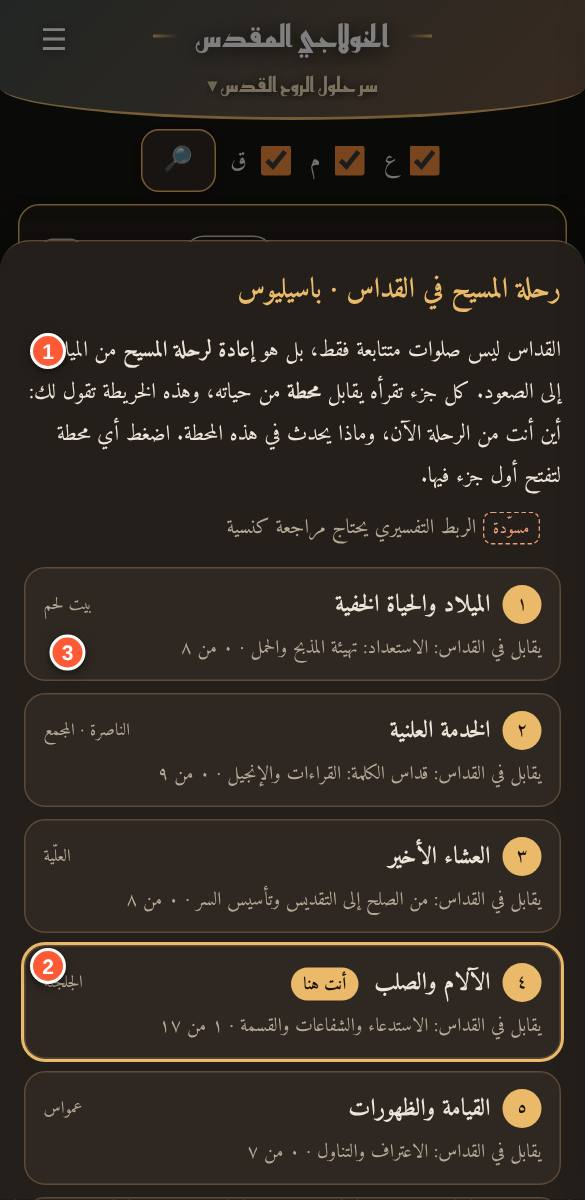
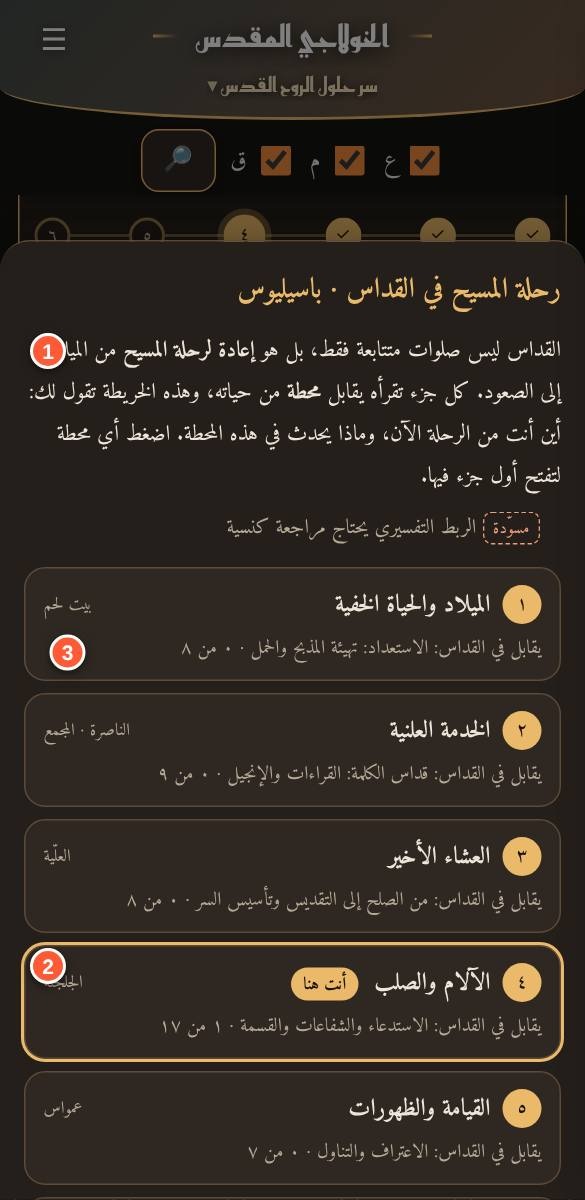
ألحان التوزيع: مدائح التوزيع السنوي والعنصرة + باقي ذكصولوجية باكر للعذراء (r159)
Claude-Session: https://claude.ai/code/session_01TxsQH8W41ZBNhnMhe9bVaK

diff --git a/data.js b/data.js
@@ -330,7 +330,8 @@ window.KHULAGI = {
       { id: "dox_nineveh", occ: "nineveh", l: "ص", title: "صوم نينوى (ذكصولوجية)", sub: "تقال في صوم نينوى (أيام الباعوثة) — من كتاب ألحان أسامة لطفي" },
       { id: "dox_nisteia", occ: "lent", l: "ت", title: "تي نيستيا الصغيرة (ذكصولوجية)", sub: "تقال في الصوم الكبير — من كتاب ألحان أسامة لطفي" },
       { id: "dox_thomas_sunday", occ: "thomas", l: "ا", title: "أحد توما (ذكصولوجية)", sub: "تقال في أحد توما (الأحد الأول بعد القيامة) — من كتاب ألحان أسامة لطفي" },
-      { id: "dox_peter_paul_2", occ: "apostles", l: "ب", title: "القديسان بطرس وبولس الرسولان (ذكصولوجية ثانية)", sub: "تقال في ٥ أبيب (تذكار استشهاد بطرس وبولس) — من كتاب ألحان أسامة لطفي" } ] },
+      { id: "dox_peter_paul_2", occ: "apostles", l: "ب", title: "القديسان بطرس وبولس الرسولان (ذكصولوجية ثانية)", sub: "تقال في ٥ أبيب (تذكار استشهاد بطرس وبولس) — من كتاب ألحان أسامة لطفي" },
+      { id: "dox_virgin_morning_rest", l: "م", title: "القديسة العذراء مريم (باقي ذكصولوجية باكر)", sub: "تقال بعد ذكصولوجية رفع بخور باكر — من كتاب ألحان أسامة لطفي" } ] },
     { id: "tawzi", title: "ألحان التوزيع", sections: [
       { id: "tawzi_nativity", occ: "nativity", title: "مديح لتوزيع عيد الميلاد", sub: "يُرتَّل أثناء التوزيع في عيد الميلاد المجيد (٢٩ كيهك)" },
       { id: "tawzi_annunciation", occ: "annunciation", title: "مديح لتوزيع عيد البشارة", sub: "يُرتَّل أثناء التوزيع في عيد البشارة (٢٩ برمهات)" },
@@ -354,7 +355,14 @@ window.KHULAGI = {
       { id: "tawzi_pascha_sun4", occ: "pascha-sun4", title: "مديح لتوزيع الأحد الرابع من الخمسين", sub: "يُرتَّل أثناء التوزيع في الأحد الرابع بعد القيامة" },
       { id: "tawzi_pascha_sun5", occ: "pascha-sun5", title: "مديح لتوزيع الأحد الخامس من الخمسين", sub: "يُرتَّل أثناء التوزيع في الأحد الخامس بعد القيامة" },
       { id: "tawzi_ascension", occ: "ascension", title: "مديح لتوزيع عيد الصعود", sub: "يُرتَّل أثناء التوزيع في عيد الصعود (الخميس الأربعين)" },
-      { id: "tawzi_pascha_sun6", occ: "pascha-sun6", title: "مديح لتوزيع الأحد السادس من الخمسين", sub: "يُرتَّل أثناء التوزيع في الأحد السادس بعد القيامة" } ] },
+      { id: "tawzi_pascha_sun6", occ: "pascha-sun6", title: "مديح لتوزيع الأحد السادس من الخمسين", sub: "يُرتَّل أثناء التوزيع في الأحد السادس بعد القيامة" },
+      { id: "tawzi_pentecost", occ: "pentecost", title: "مديح لتوزيع الأحد السابع (عيد العنصرة)", sub: "يُرتَّل أثناء التوزيع في عيد العنصرة (الأحد السابع من الخمسين)" },
+      { id: "tawzi_pentecost_hymns", occ: "pentecost apostlesfast", title: "ما يُقال في توزيع العنصرة وصوم الرسل", sub: "بعد المزمور ١٥٠ (لحن آسومين) في عيد العنصرة وصوم الرسل" },
+      { id: "tawzi_annual_isma", occ: "always", title: "مديح لتوزيع (اسمعوا يا شعب المسيح)", sub: "مديح التوزيع السنوي — يُرتَّل أثناء التوزيع على مدار السنة" },
+      { id: "tawzi_annual_magd", occ: "always", title: "مديح لتوزيع (المجد لمن رفع السموات)", sub: "مديح التوزيع السنوي — يُرتَّل أثناء التوزيع على مدار السنة" },
+      { id: "tawzi_annual_abana", occ: "always", title: "مديح أبانا الذي في السموات", sub: "مديح التوزيع السنوي — يُرتَّل أثناء التوزيع على مدار السنة" },
+      { id: "tawzi_annual_trinity", occ: "always", title: "مديح سنوي للثلاثة أقانيم", sub: "مديح التوزيع السنوي — يُرتَّل أثناء التوزيع على مدار السنة" },
+      { id: "tawzi_annual_eucharist", occ: "always", title: "مديح (إن فادينا دعانا)", sub: "مديح التوزيع السنوي — يُرتَّل أثناء التوزيع على مدار السنة" } ] },
     { id: "bless", title: "صلوات تبريك", sections: [
       { id: "b1", title: "١. صلاة على خبز البركة", page: 917 },
       { id: "b2", title: "٢. صلاة قبل الأكل", page: 919 },

diff --git a/guide-news.js b/guide-news.js
@@ -1,6 +1,7 @@
 /* سجل الميزات الجديدة (الأحدث أولا). كل ميزة جديدة تُضاف هنا كمدخل جديد في أعلى القائمة،
    ثم تُحدَّث مواصفة الصفحة المتأثرة في tools/make-guide.js وتُعاد اللقطات (node tools/make-guide.js). */
 window.KG_NEWS=[
+{v:"r159",t:"مدائح التوزيع السنوي وعيد العنصرة",x:"أُضيفت إلى «ألحان التوزيع» خمسة مدائح للتوزيع السنوي (اسمعوا يا شعب المسيح، المجد لمن رفع السموات، أبانا الذي في السموات، الثلاثة أقانيم، إن فادينا دعانا) ومديح عيد العنصرة وما يقال في توزيع العنصرة وصوم الرسل، وذكصولوجية «باقي ذكصولوجية باكر للعذراء» (بعلامة مسوّدة). مدائح السنوي تُقترح كل يوم."},
 {v:"r158",t:"تصحيح معرَّب مردات القداس بنص كتاب أسامة لطفي",x:"صُحِّح معرَّب ٤٤ مردا في القداسات (كيريه ليسون، آمين، ولروحك أيضا، أبانا الذي، واحد هو الآب القدوس، نسجد لجسدك…) بنص الكتاب، وتوحَّد الحرف في كل المعرَّب (ب بدل پ) ليوافق الكتاب."},
 {v:"r157",t:"مدائح توزيع الخماسين والصعود",x:"أُضيفت مدائح توزيع الأحد الأول (أحد توما) إلى السادس من الخمسين المقدسة ومديح عيد الصعود (بعلامة مسوّدة). تُقترح تلقائيا في «اليوم» حسب الأحد من الخمسين المحسوب من التقويم القبطي."},
 {v:"r156",t:"مدائح توزيع نينوى وسبت لعازر",x:"أُضيف مديح توزيع صوم أهل نينوى (٣٩ بيتا) ومديح توزيع سبت لعازر (٣٠ بيتا) إلى «ألحان التوزيع» (بعلامة مسوّدة)، وتُقترحان تلقائيا في «اليوم» في موعدهما من التقويم القبطي."},

diff --git a/sw.js b/sw.js
@@ -1,4 +1,4 @@
-const CACHE_NAME='khulagi-v1.5-shell-r158';
+const CACHE_NAME='khulagi-v1.5-shell-r159';
 const FILES=['./','index.html','icon-192.png','icon-512.png','guide-news.js','calendar.js','content-tawzi.txt','guide-pages.js','guide/doxologies.jpg','guide/library.jpg','guide/lists.jpg','guide/lit.jpg','guide/notes.jpg','guide/post.jpg','guide/pre.jpg','guide/reader.jpg','guide/settings.jpg','guide/sidx.jpg','guide/splash.jpg','guide/story.jpg','guide/today.jpg','reemkufi-arabic-700-normal.woff2','dawn.jpg','data.js','study.js','swipe.js','live.js','story.js','study-data.js','data-bible.js','content-raf.txt','content-bas.txt','content-greg.txt','content-cyr.txt','content-qisam.txt','content-misc.txt','content-bless.txt','content-app.txt','content-taqs.txt','content-dox.txt','manifest.webmanifest','amiri-arabic-400-normal.woff2','amiri-arabic-700-normal.woff2','amiri-latin-400-normal.woff2','tajawal-arabic-400.woff2','tajawal-latin-400.woff2','tajawal-arabic-700.woff2','tajawal-latin-700.woff2','cairo-arabic-400-normal.woff2','cairo-arabic-700-normal.woff2','el-messiri-arabic-400-normal.woff2','el-messiri-arabic-700-normal.woff2','lateef-arabic-400-normal.woff2','lateef-arabic-700-normal.woff2','markazi-text-arabic-400-normal.woff2','markazi-text-arabic-700-normal.woff2','noto-naskh-arabic-arabic-400-normal.woff2','noto-naskh-arabic-arabic-700-normal.woff2','reem-kufi-arabic-400-normal.woff2','reem-kufi-arabic-700-normal.woff2','scheherazade-new-arabic-400-normal.woff2','scheherazade-new-arabic-700-normal.woff2','amiri-latin-700-normal.woff2','noto-sans-coptic-coptic-400-normal.woff2','noto-sans-coptic-latin-400-normal.woff2'];
 self.addEventListener('install',e=>{e.waitUntil(caches.open(CACHE_NAME).then(c=>Promise.all(FILES.map(f=>c.add(new Request(f,{cache:'reload'})).catch(()=>{})))).then(()=>self.skipWaiting()))});
 self.addEventListener('activate',e=>{e.waitUntil(caches.keys().then(k=>Promise.all(k.filter(x=>x!==CACHE_NAME).map(x=>caches.delete(x)))).then(()=>self.clients.claim()))});
